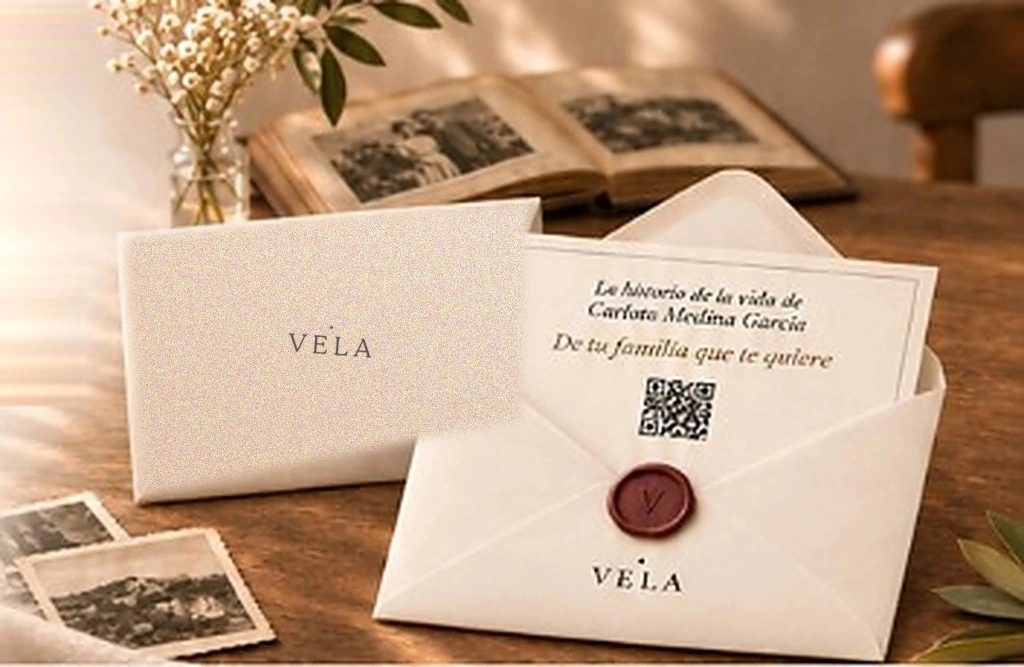
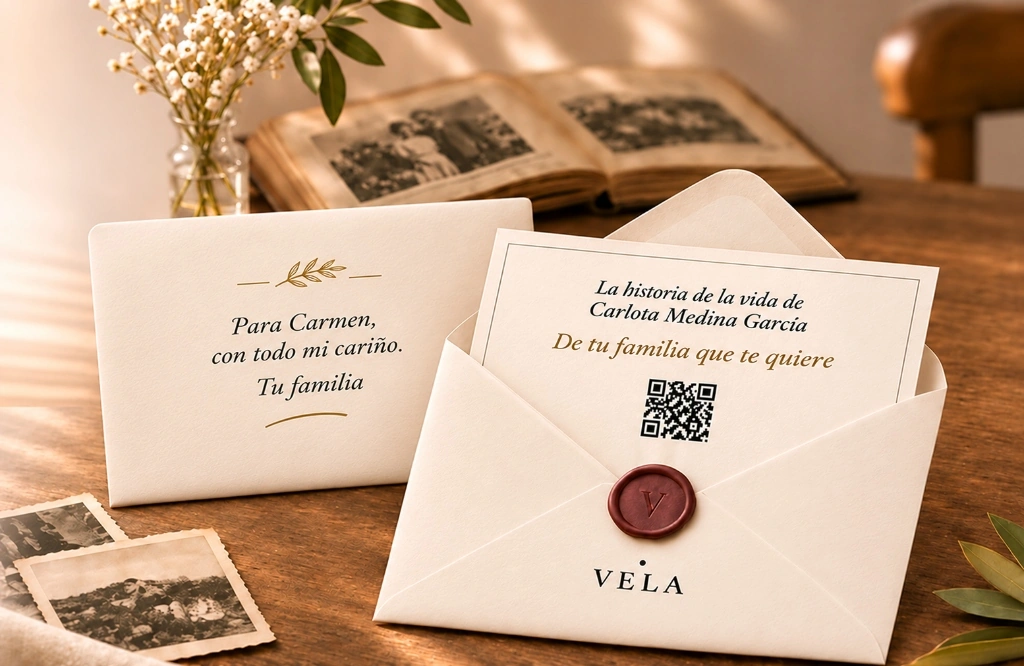
feat: actualizar fotografia de presentacion fisica del sobre VELA con dedicatoria Carmen y Carlota

diff --git a/la-biografia.html b/la-biografia.html
@@ -532,8 +532,8 @@
                 </div>
                 <div class="vela-icon-row__divider" aria-hidden="true"></div>
                 <div class="vela-icon-row__content">
-                  <h4>Sobre VELA: anverso y reverso</h4>
-                  <p>Presentación física en papel verjurado: el sobre cerrado con su firma VELA en la solapa, junto a la dedicatoria con sello de lacre y código QR.</p>
+                  <h4>Sobre físico y tarjeta con dedicatoria</h4>
+                  <p>Presentación en papel verjurado: dedicatoria familiar personalizada con motivo botánico, junto al sobre abierto con sello de lacre burdeos y código QR.</p>
                 </div>
               </div>
 
@@ -570,14 +570,14 @@
             </div>
           </div>
 
-          <!-- Derecha: Composición fotográfica editorial artística con el sobre por anverso y reverso -->
+          <!-- Derecha: Composición fotográfica editorial artística del sobre y dedicatoria física VELA -->
           <div class="lg:col-span-6">
             <div class="vela-gift-showcase">
               <div class="vela-gift-frame">
-                <img src="assets/sobre-ambos-lados-mesa.webp" alt="El sobre VELA: presentación cerrada con solapa y firma VELA, junto a la dedicatoria abierta con sello de lacre artesanal y código QR" class="w-full h-auto object-cover" />
+                <img src="assets/sobre-ambos-lados-mesa.webp" alt="Presentación física VELA: tarjeta con dedicatoria personalizada y sobre abierto en papel verjurado con sello de lacre rojo y código QR sobre mesa de madera" class="w-full h-auto object-cover" />
               </div>
               <p class="text-center font-serif italic text-xs sm:text-sm text-vela-chocolate/75 pt-3">
-                Presentación física VELA: el sobre cerrado con su firma de marca en la solapa y la tarjeta de dedicatoria abierta con sello de lacre y código QR
+                Presentación física VELA: dedicatoria personalizada familiar y sobre en papel verjurado con sello de lacre artesanal y código QR
               </p>
             </div>
           </div>
